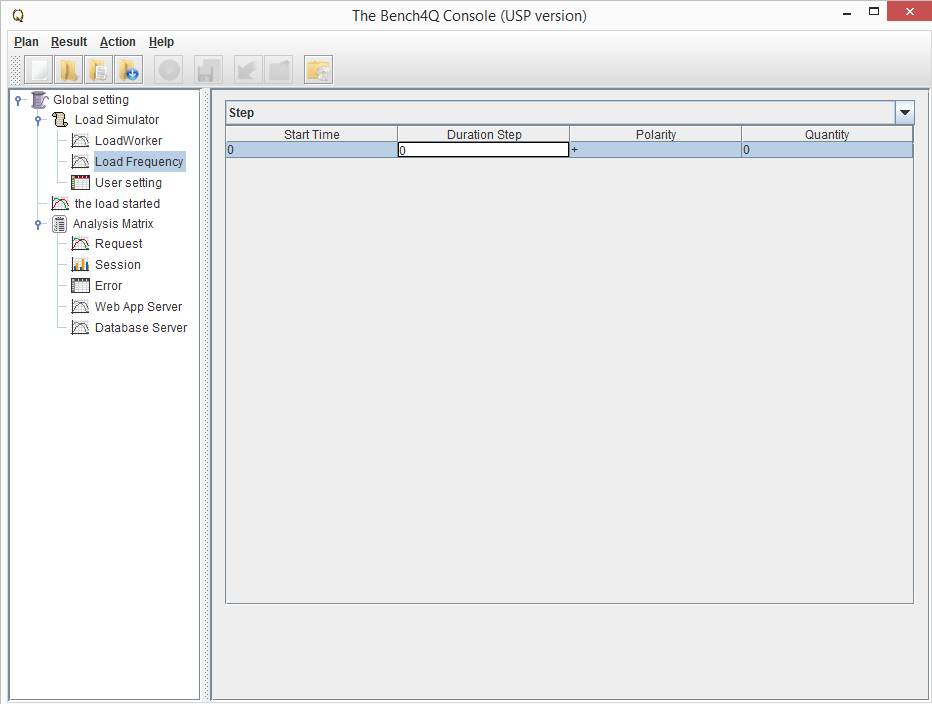
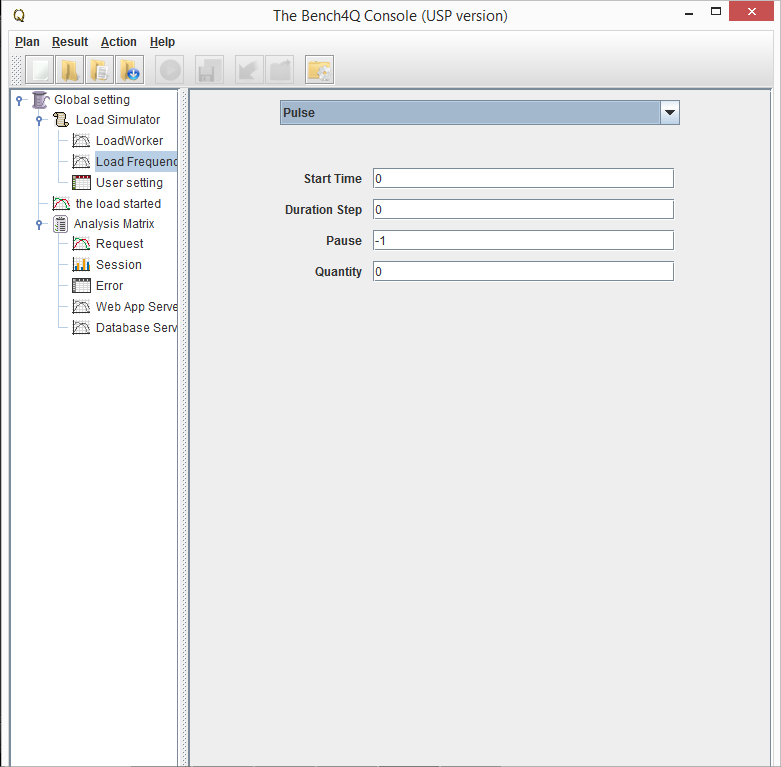
metodologia e desenvolvimento 2

Changed region(s): [[0.0, 0.0, 1.0, 1.0], [0.3995, 0.3125, 0.8604, 0.375], [0.338, 0.0, 0.6453, 0.0312]]

diff --git a/monograph/thesis/chapters/desenvolvimento.tex b/monograph/thesis/chapters/desenvolvimento.tex
@@ -1,4 +1,8 @@
-Nesta seção é apresentado em detalhes a implementação aplicadas no \textit{benchmark} Bench4Q. A Figura \ref{fig:diagrama-classes} mostra o diagrama de classes envolvido na extensão do Bench4Q. As classes sinalizadas na core azul, representa as já existentes mas que passaram por adaptações e modificações, ja as classes na cor verde, se refere as novas classes criadas para possibilitar a modelagem da carga no Bench4Q.
+Nesta seção é apresentado em detalhes a implementação aplicadas no \textit{benchmark} Bench4Q. A Figura \ref{fig:diagrama-classes} mostra o diagrama de classes envolvido na extensão do Bench4Q. As classes sinalizadas na core azul, representa as já existentes mas que passaram por adaptações e modificações, já as classes na cor verde, se refere as novas classes criadas para possibilitar a modelagem da carga no Bench4Q.
+
+Apesar de permitir a geração de carga para o sistema, o Bench4Q possui algumas limitações na sua versão original que dificultam a experimentação e analise de cenários de interesse ao trabalhos de Choquehuanca e \cite{Lourenco2015} de quem pretende desenvolver técnicas de gerenciamento de recursos.
+As classes disponíveis no \textit{benchmark} original não permitem a modulação de carga de trabalho, essa limitação implica na dificuldade de projetar um controlador para o gerenciamento de recursos, pois para esta atividade é necessário uma análise de resultados transiente mediante a modulação da carga de trabalho, a simulação de um uma carga de trabalho em que há a alteração introduzida ao longo da simulação é o foco deste trabalho.
+Para distribuir a submissão da carga de trabalho ao longo da simulação, uma estratégia utilizada é a modulação da mesma atrás de parâmetros que configuram o comportamento da carga. O Bench4Q também não suporta nativamente a alocação e a deslocação dos recursos em tempo de simulação, uma conjunto de implementações foram necessárias para estender o \textit{benchmark}, essas aplicações não lidam com a modulação da carga de trabalho, mas manipulação a distribuição da carga de trabalho e o gerenciamento dos recursos da proposta de arquitetura. Contudo, os detalhes dessa implementação não serão apresentados e discutido neste trabalho, uma vez que o objetivo do trabalho é na modulação da carga.
 
 \begin{figure}[htb]
 	\centering
@@ -10,10 +14,10 @@ Nesta seção é apresentado em detalhes a implementação aplicadas no \textit{
 
 %1º  - falar como foi implementados as modificações conforme a metodologia
 
-A principio foi identificado o modulo de geração de carga do Bench4Q e este passou por alterações para gerar a carga de trabalho esperada. Conforme o diagrama de classes na figura \ref{fig:diagrama-classes}, é possível ter uma ideia do trabalho realizado no \textit{benchmark}, vale aqui salientar que o Bench4Q é uma ferramente completa e extensa, e diagramar todas as classes do mesmo ficaria difícil a sua apresentação em um único diagrama que facilita-se o entendimento, sendo assim, aqui apresentamos somente as classes já existente no Bench4Q e que passar por modificações para atender aos requisitos da metodologia e as novas classes que foram necessária para o mesmo objetivo.
+A princípio foi identificado o modulo de geração de carga do Bench4Q e este passou por alterações para gerar a carga de trabalho esperada. Conforme o diagrama de classes na figura \ref{fig:diagrama-classes}, é possível ter uma ideia do trabalho realizado no \textit{benchmark}, vale aqui salientar que o Bench4Q é uma ferramenta completa e extensa, e diagramar todas as classes do mesmo ficaria difícil a sua apresentação em um único diagrama que facilita-se o entendimento, sendo assim, aqui apresentamos somente as classes já existente no Bench4Q e que passar por modificações para atender aos requisitos da metodologia e as novas classes que foram necessária para o mesmo objetivo.
 O Bench4Q fornece uma estrutura e componentes compartilhados para a comunicação entre os dois principais módulos da carga de trabalho, \textbf{Console} e \textbf{Agente}. A extensão é construído em sob a classe \textsf{MLoadSimulatorPanel}, que orquestra toda a interatividade gráfica do Bench4Q. O novo painel de configuração, que modula a carga, \textsf{MLoadFrequencyPanel} estende da classe original \textsf{Bench4QTreeModel} adicionando os parâmetros para a modulação: tipo da carga, o instante em que a carga se inicia, o tempo de atuação da carga e a quantidade de EBs que atuaram nessa carga, esses parâmetros são armazenados na classe \textsf{TestFrequency} que são repassadas para a classe \textsf{PropertiesEB} através da \textsf{FrequencySettings}. Nas classes \textsf{Agent}, \textsf{EB}, \textsf{EBClose}, \textsf{EBOpen}, \textsf{Workers}, \textsf{WorkersClosed} e \textsf{WorkersOpen} foram modificadas para receber os novos parâmetros da \textsf{TestFrequency} e compreendê-los correspondentemente a modulação configurada e gerando a carga durante a execução.
 
-Este conjunto de classes é que lida, manipula e gerencia a carga de trabalha gerada pelo Beanch4Q. A ferramente utiliza de um excelente console para configurar a carga de trabalho, e para mantar e respeitar o padrão do \textit{benchmark} foi implementado uma interface de configuração conforme ilustrado na figura \ref{fig:interface-criada-beanch4q}. Seguindo os padrões do Bench4Q, foi criado uma interface por onde controlar o comportamento da carga antes da execução, a carga é programada atras vezes de parâmetros informados previamente a execução do experimento. Exemplo, ao escolher a opção degrau, é necessário informar quantos EBs geram o degrau, em que instante de tempo, e qual o tempo de duração e por fim qual a sua polaridade (com base em um pulso elétrico a positiva sairia de zero e chega a um, a negativa, sairia de um e chegaria a zero).
+Este conjunto de classes é que lida, manipula e gerencia a carga de trabalha gerada pelo Beanch4Q. A ferramenta utiliza de um excelente console para configurar a carga de trabalho, e para mantar e respeitar o padrão do \textit{benchmark} foi implementado uma interface de configuração conforme ilustrado na figura \ref{fig:interface-criada-beanch4q}. Seguindo os padrões do Bench4Q, foi criado uma interface por onde controlar o comportamento da carga antes da execução, a carga é programada atrás vezes de parâmetros informados previamente a execução do experimento. Exemplo, ao escolher a opção degrau, é necessário informar quantos EBs geram o degrau, em que instante de tempo, e qual o tempo de duração e por fim qual a sua polaridade (com base em um pulso elétrico a positiva sairia de zero e chega a um, a negativa, sairia de um e chegaria a zero).
 
 \begin{figure}[htb]
 	\centering
@@ -24,15 +28,20 @@ Este conjunto de classes é que lida, manipula e gerencia a carga de trabalha ge
 \end{figure}
 
 
+A carga de trabalho é imposta ao sistema por meio de requisições HTTP enviadas pelos EBs (usuários finais) ao SUT (serviço Web) que executam nos servidores de aplicação das máquinas virtuais instanciadas no host. Essas requisições exigem que as máquinas virtuais se ocupem pelo tempo necessário para processá-las, alterando o desempenho experimentado pelo sistema.
+Segundo \cite{Nobile2013}, dois fatores que envolvem uma requisição e que afetam diretamente o desempenho do sistema:
+\begin{citacao}
+	o tempo de processamento e a quantidade de carga imposta pelas requisições, dados pelo tempo de processamento e pela taxa de chegada de novas requisições, respectivamente. Com o tempo, a quantidade e o tamanho das requisições podem se alterar, dependendo do perfil de utilização dos usuários que utilizam o serviço naquele momento. Havendo um aumento em algum desses fatores é possível que o desempenho do sistema sofra degradação, podendo, e casos extremos, entrar em colapso.
+\end{citacao}
 %- mostrar resultados da carga de trabalho
 
 %2º  - falar que nao foram necessarios incluir novas metricas, pois as presentes no bench4 já são o suficiente para o estudo de caso
 
 %Para iniciar o desenvolvimento de extensão do Bench4Q, iniciamos por trabalhar com uma versão completa da implementação do \textit{benchmark} Bench4Q \textbf{(adicionar link de download da ferramenta)}
 
-%Considere uma livraria que desejar realizar uma promoção no dia de seu aniversario, essa promoção é ousada e espera-se ter um grande volume de vendas decorre a comemoração, isso irá apoiar as suas operações de venda e expandir seu mercado. Logo, a maior preocupação por parte da empresa é que seu \textit{e-commerce} esteja disponível para os compradores/clientes, assim a empresa decidiu contratar os serviços de uma provedora de \textit{Cloud Computing} para hospedar o seu \textit{e-commerce} no dia o evento. O ambiente destinado para este evento está em processo de validação de carga, por parte da operadora, para garantir que os clientes antigos e novos da livraria possam usufruir e aproveitarem a promoção, e para a provedora não correr o risco de perderem o contrato o diretor de TI da provedora solicitou a sua equipe de engenheiros realizarem experimentos para garantir o desempenho esperado pelo cliente contrante.
-%Supondo que, em condições normais de funcionamento, o \textit{e-commerce} da livraria tem 10 clientes simultâneos e durante o dia do evento da mega promoção de aniversario, espera-se em média 20 clientes simultâneos,  além disso, a carga de trabalho está prevista para crescer em até 300\% ao longo do dia. A empresa contrante, a livraria, acredita que o tempo médio de resposta para todas as operações é de 7 segundos, e deseja que 90\% dos seus clientes estejam dentro dessas condições pré estabelecidas por ela, ou seja, a livraria da um margem de 10\% dos cliente fiquem fora do desempenho definido. Note-se que todos estes números e valores foram escolhidos de forma arbitrária, de modo a tornar o nosso cenário motivador mais específico.
-%Ao ler os requisitos de desempenho, a equipe de engenheiros, vez a necessidade de uma analise transiente, que por sua vez, buscam um \textit{becnhmark} para realizar os experimentos, então identificam um \textit{becnhmark} que se adéqua-se ao caso, entretanto o \textit{becnhmark} em questão não realiza analise transiente, contudo a equipe decide em aplicar a metodologia proposta neste trabalho.
+%Considere uma livraria que desejar realizar uma promoção no dia de seu aniversário, essa promoção é ousada e espera-se ter um grande volume de vendas decorre a comemoração, isso irá apoiar as suas operações de venda e expandir seu mercado. Logo, a maior preocupação por parte da empresa é que seu \textit{e-commerce} esteja disponível para os compradores/clientes, assim a empresa decidiu contratar os serviços de uma provedora de \textit{Cloud Computing} para hospedar o seu \textit{e-commerce} no dia o evento. O ambiente destinado para este evento está em processo de validação de carga, por parte da operadora, para garantir que os clientes antigos e novos da livraria possam usufruir e aproveitarem a promoção, e para a provedora não correr o risco de perderem o contrato o diretor de TI da provedora solicitou a sua equipe de engenheiros realizarem experimentos para garantir o desempenho esperado pelo cliente contratante.
+%Supondo que, em condições normais de funcionamento, o \textit{e-commerce} da livraria tem 10 clientes simultâneos e durante o dia do evento da mega promoção de aniversario, espera-se em média 20 clientes simultâneos, além disso, a carga de trabalho está prevista para crescer em até 300\% ao longo do dia. A empresa contratante, a livraria, acredita que o tempo médio de resposta para todas as operações é de 7 segundos, e deseja que 90\% dos seus clientes estejam dentro dessas condições pré estabelecidas por ela, ou seja, a livraria da um margem de 10\% dos cliente fiquem fora do desempenho definido. Note-se que todos estes números e valores foram escolhidos de forma arbitrária, de modo a tornar o nosso cenário motivador mais específico.
+%Ao ler os requisitos de desempenho, a equipe de engenheiros, vez a necessidade de uma análise transiente, que por sua vez, buscam um \textit{becnhmark} para realizar os experimentos, então identificam um \textit{becnhmark} que se adéqua-se ao caso, entretanto o \textit{becnhmark} em questão não realiza analise transiente, contudo a equipe decide em aplicar a metodologia proposta neste trabalho.
 
 %Ainda assim, a equipe de engenheiro da operadora de \textit{Cloud Computing} precisa garantir e encontrar respostas para as seguintes perguntas, após a aplicação da metodologia:
 
@@ -40,8 +49,3 @@ Este conjunto de classes é que lida, manipula e gerencia a carga de trabalha ge
 %	\item Com a aplicação da metodologia, o \textit{becnhmark} irá estimular o sistema a apresentar a sua dinâmica, permitindo a analise em regime transiente do mesmo? 
 %	\item Que as métricas utilizadas pelo contratante são sendo analisadas
 %\end{itemize}
-
-
-
-
-

diff --git a/monograph/thesis/chapters/metodologia.tex b/monograph/thesis/chapters/metodologia.tex
@@ -71,7 +71,7 @@ No contexto de avaliação transiente, \cite{Rosu1997} afirma que a reatividade 
 \end{figure}
 
 
-A métrica em questão deve ser identifica dentro da realidade e necessidade em que se encontra o sistemas a ser avaliado. Logo será de uma ingenuidade fixar uma métrica para um sistema desconhecido, o importante é que ela tenha o comportamento e as caracteriais apresentadas anteriormente nesse passo da metodologia de extensão. Existem diversos trabalhos dedicados que identificam métricas transiente em vários contextos como o \cite{Binnig2009, Lu2000, Rosu1997}.
+A métrica em questão deve ser identifica dentro da realidade e necessidade em que se encontra o sistemas a ser avaliado. Logo será de uma ingenuidade fixar uma métrica para um sistema desconhecido, o importante é que ela tenha o comportamento e as características apresentadas anteriormente nesse passo da metodologia de extensão. Existem diversos trabalhos dedicados que identificam métricas transiente em vários contextos como o \cite{Binnig2009, Lu2000, Rosu1997}.
 
 \cite{Binnig2009} afirma que os \textit{benchmarks} tradicionais são principalmente preocupados com o desempenho e o custo de sistemas estáticos e essas métricas ainda tem relevância para as aplicações em nuvem, mas é necessário medir diferentes métricas para sistemas escaláveis (ou seja, dinâmico) onde os recursos vêm e vão. Ainda \cite{Binnig2009} enfatiza que os novos \textit{benchmarks} devem relatar métricas diferentes do que os benchmarks existentes: 
 \begin{citacao}
@@ -106,8 +106,8 @@ Os experimentos conduzidos neste trabalho consideraram três diferentes fatores 
 \end{table}
 
 
-O primeiro fator refere-se à quantidade de clientes simultâneos requisitando serviços ao Serviço Web, esse clientes são modulados conforme a configuração feita, sendo assim essa carga de trabalha estimulará o sistema a apresentar a sua dinâmica. O segundo fator associado a possibilidade de serem considerados diferentes tipos de serviço, assim este fator terá dois níveis de bancos de dados o Postgres e o DB2, o Bench4Q oferece o \textit{script} de criação de bando para ambos. O último e o terceiro fator, se refere a política de alocação de recursos, neste caso são dois níveis \textit{estática} (onde os servidores \textit{host} estão desde o principio em execução e disponíveis.) e \textit{dinâmica} (onde os servidores são colocados a disposição conforme a oscilação da carga de trabalho).
+O primeiro fator refere-se à quantidade de clientes simultâneos requisitando serviços ao Serviço Web, esses clientes são modulados conforme a configuração feita, sendo assim essa carga de trabalha estimulará o sistema a apresentar a sua dinâmica. O segundo fator associado a possibilidade de serem considerados diferentes tipos de serviço, assim este fator terá dois níveis de bancos de dados o Postgres e o DB2, o Bench4Q oferece o \textit{script} de criação de bando para ambos. O último e o terceiro fator, se refere a política de alocação de recursos, neste caso são dois níveis \textit{estática} (onde os servidores \textit{host} estão desde o princípio em execução e disponíveis.) e \textit{dinâmica} (onde os servidores são colocados à disposição conforme a oscilação da carga de trabalho).
 
 O planejamento de experimento e utilizado neste trabalho como avaliação de desempenho segue a abordagem do planejamento fatorial completo. Logo, possibilita que todas as combinações possíveis dos fatores sejam examinados. Para cada experimento serão 5 repetições, utilizadas para determinar a média, o desvio padrão e o intervalo de confiança de 95% .
 
-
+Durante a execução dos experimentos pequenas aplicações, monitores, em cada um dos níveis da arquitetura são responsáveis por coletar algumas informações de interesse disponíveis, como a taxa de utilização de CPU e a quantidade de requisições simultâneas. Os valores produzidos pela experimentação foram adicionados em arquivos Excel (\textit{.xls}), esses dados foram processados pelo R \footnote{\url{https://www.r-project.org/}}.
